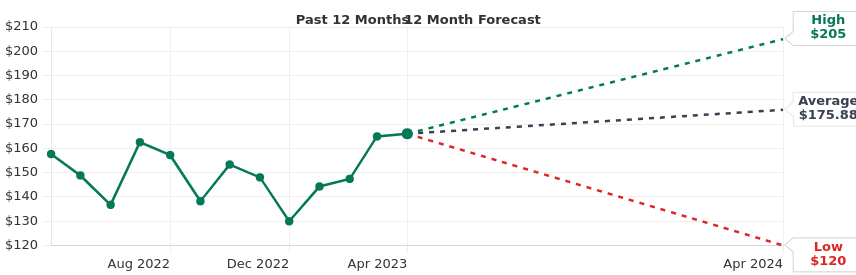
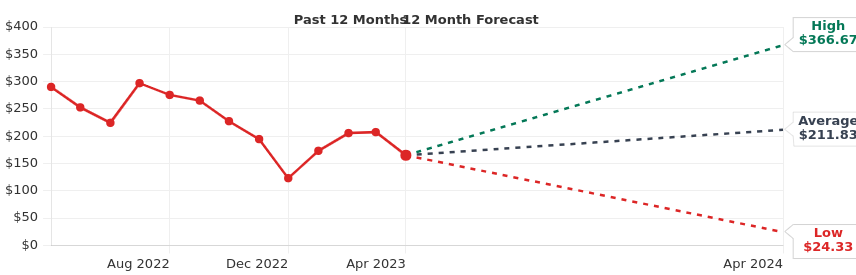
sunday

diff --git a/eda_generator.py b/eda_generator.py
@@ -1,28 +1,6 @@
-# -*- coding: utf-8 -*-
-"""EDA_generator_univariable_Men2a.ipynb
 
-Automatically generated by Colaboratory.
-
-Original file is located at
-    https://colab.research.google.com/drive/1pq3OUtR9wXj0x5hL-ftLJgkZhAQTnA98
-
-### THIS CODE WAS CREATED TO GENERATE AUTOMATIZED EDA NOTEBOOKS IN COLAB USING JSON STRUCTURE FOR CELLS AND PYTHON CONDITIONALS FOR CREATING CODE ACCORDING TO DATA TYPES IN PANDAS DATAFRAMAS
-
-# parameters
-
-# Install and imports
-"""
-
-!pip install sweetviz
-
-!pip install pyodbc
-!curl https://packages.microsoft.com/keys/microsoft.asc | apt-key add -
-!curl https://packages.microsoft.com/config/ubuntu/16.04/prod.list > /etc/apt/sources.list.d/mssql-release.list
-!sudo apt-get update
-!sudo ACCEPT_EULA=Y apt-get -q -y install msodbcsql17
-
-import psycopg2
-
+"""# Get files in folder"""
+import os
 import pandas as pd
 import numpy as np
 import uuid
@@ -31,60 +9,25 @@ import matplotlib.patches    as mpatches
 import seaborn               as sns
 import sklearn.metrics       as Metrics
 import json
-from subprocess import run
-sns.set(style="whitegrid")
 import sweetviz as sv
 
-from google.colab import drive
-drive.mount('/content/drive')
 
-"""# Set DB Conn
+path_dir = '/mnt/f/PythonFinanceProjects/'
 
-"""
-
-# query = 'SELECT id, user_agent, ip_address, username, http_accept, path_info, attempt_time, logout_time FROM public.axes_accesslog;'
-
-# query = open(f'{path_dir}{f}').read()
-# query = open(f'/content/drive/MyDrive/projects/Mullen/EDA automation/EDA Automation SQL/sources/los que faltan/axes_acceslog.txt').read()
-
-# df_prods_orig = pd.read_sql_query(query, psy_conn)
-
-# df_prods_orig
-
-"""# Get files in folder"""
-
-path_dir = '/content/drive/MyDrive/Datos GRAM-IA.APLICADA/'
-# /content/drive/MyDrive/projects/Mullen/EDA automation/EDA Automation csv/source
-
-from google.colab import drive
-drive.mount('/content/drive')
-
-cmd = [ 'ls', path_dir]
-
-output = run(cmd, capture_output=True).stdout
-
-files_name = output.decode('utf-8').split('\n')
-files_name
-
-# file_test = '/content/drive/MyDrive/projects/Mullen/EDA automation/EDA Automation SQL/sources/location_locationgallery.txt'
-
-# # Test
-# with open(file_test) as f:
-#     print(f.read())
-
-# query = open(file_test).read()
 
 def conditions_for_reading(filename):
+    valid_extensions = ['.xlsx', '.csv', '.txt', '.sql']
+    return any(filename.lower().endswith(ext) for ext in valid_extensions)
 
-  filename = filename.lower()
 
-  return (filename.endswith('.xlsx') | 
-          filename.endswith('.csv') |
-          filename.endswith('.txt') |
-          filename.endswith('.sql'))
+files_name = [os.path.join(path_dir, file) for file in os.listdir(path_dir) if conditions_for_reading(file)]
 
-files_name = [file for file in files_name if conditions_for_reading(file)]
-files_name
+# Test
+for file_name in files_name:
+    with open(file_name) as f:
+        print(f.read())
+
+
 
 """# Functions
 

diff --git a/scrapping_canvas.py b/scrapping_canvas.py
@@ -4,7 +4,7 @@ from selenium.webdriver.common.by import By
 # Set up the Selenium webdriver
 driver = webdriver.Chrome()
 
-symbol = 'aapl'  #symbol, company or stock to analyze
+symbol = 'TSLA'  #symbol, company or stock to analyze
 
 #This is the web with images for scraping canvas
 driver.get(f"https://stockanalysis.com/stocks/{symbol}/forecast/")

diff --git a/main_stock_finantial.py b/main_stock_finantial.py
@@ -11,7 +11,7 @@ headers= {
     'Cache-Control': 'max-age=0'
 }
 
-symbol= 'EC'
+symbol= 'TSLA'
 
 urls = {}
 urls['income annually'] = f"https://stockanalysis.com/stocks/{symbol}/financials/"
